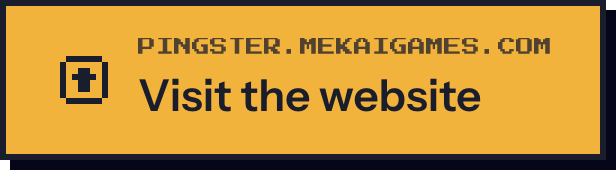
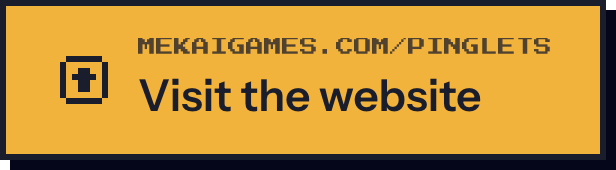
Pingster is now Pinglets

Changed region(s): [[0.2159, 0.2059, 0.8945, 0.3235]]

diff --git a/README.md b/README.md
@@ -1,13 +1,13 @@
 <p align="center">
-  <a href="https://mekaigames.com/pingster"><img src="assets/banner.gif" alt="Pingster: tiny pixel crew members walking on the Dock, one of them fighting a glitch" width="100%"></a>
+  <a href="https://mekaigames.com/pinglets"><img src="assets/banner.gif" alt="Pinglets: tiny pixel crew members walking on the Dock, one of them fighting a glitch" width="100%"></a>
 </p>
 
 <p align="center">
-  <a href="https://github.com/mekai-games/pingster/releases/latest/download/Pingster.dmg"><img src="assets/btn-download.png" alt="Download Pingster for Mac: 7-day free trial" height="58"></a>
+  <a href="https://github.com/mekai-games/pinglets/releases/latest/download/Pinglets.dmg"><img src="assets/btn-download.png" alt="Download Pinglets for Mac: 7-day free trial" height="58"></a>
   &nbsp;
-  <a href="https://github.com/mekai-games/pingster/releases/latest/download/Pingster-Setup.exe"><img src="assets/btn-windows.png" alt="Download Pingster for Windows: 7-day free trial" height="58"></a>
+  <a href="https://github.com/mekai-games/pinglets/releases/latest/download/Pinglets-Setup.exe"><img src="assets/btn-windows.png" alt="Download Pinglets for Windows: 7-day free trial" height="58"></a>
   &nbsp;
-  <a href="https://mekaigames.com/pingster"><img src="assets/btn-site.png" alt="Visit the Pingster website" height="58"></a>
+  <a href="https://mekaigames.com/pinglets"><img src="assets/btn-site.png" alt="Visit the Pinglets website" height="58"></a>
 </p>
 
 <p align="center">
@@ -20,7 +20,7 @@
   <img alt="macOS 11 or later" src="https://img.shields.io/badge/macOS-11%2B-2fd39a?style=flat-square&labelColor=1a1d2b">
   <img alt="Windows 10 and 11" src="https://img.shields.io/badge/Windows-10%20%7C%2011-2fd39a?style=flat-square&labelColor=1a1d2b">
   <img alt="6,99 € once, 7-day free trial" src="https://img.shields.io/badge/6%2C99%20%E2%82%AC%20once-7--day%20free%20trial-f2b33d?style=flat-square&labelColor=1a1d2b">
-  <img alt="Latest version" src="https://img.shields.io/github/v/release/mekai-games/pingster?style=flat-square&labelColor=1a1d2b&color=2fd39a&label=version">
+  <img alt="Latest version" src="https://img.shields.io/github/v/release/mekai-games/pinglets?style=flat-square&labelColor=1a1d2b&color=2fd39a&label=version">
   <img alt="No account, no ads, no tracking" src="https://img.shields.io/badge/no%20account%20%C2%B7%20no%20ads%20%C2%B7%20no%20tracking-f2b33d?style=flat-square&labelColor=1a1d2b">
 </p>
 
@@ -28,7 +28,7 @@
 
 ## A small app, not a game
 
-Pingster sits at the bottom of your screen and walks along the Dock (or the taskbar) while you work. Click it, drag it, throw
+Pinglets sits at the bottom of your screen and walks along the Dock (or the taskbar) while you work. Click it, drag it, throw
 it, pat it. It is there to help you with the day, and it needs a bit of help from you too.
 
 <table>
@@ -59,29 +59,29 @@ it, pat it. It is there to help you with the day, and it needs a bit of help fro
 | **Countdown** | Days left to the holidays, a deadline, a birthday. It tells you every morning. |
 
 <p align="center">
-  <img src="assets/panel.png" alt="The Pingster panel: pet, tasks, helpers and crew" width="100%">
+  <img src="assets/panel.png" alt="The Pinglets panel: pet, tasks, helpers and crew" width="100%">
 </p>
 
 <p align="center">
-  <img src="assets/crew.png" alt="The 22 crew members of Pingster" width="100%">
+  <img src="assets/crew.png" alt="The 22 crew members of Pinglets" width="100%">
 </p>
 
 ## Download
 
 | | |
 |---|---|
-| **Mac** | [Free trial for Mac](https://github.com/mekai-games/pingster/releases/latest/download/Pingster.dmg) · macOS 11 or later, Apple silicon or Intel |
-| **Windows** | [Free trial for Windows](https://github.com/mekai-games/pingster/releases/latest/download/Pingster-Setup.exe) · Windows 10 or 11, 64-bit |
-| **License** | Everything works for 7 days. Then [get your license](https://mekaigames.com/pingster#buy) for 6,99 €, once. One key, up to 3 computers. |
+| **Mac** | [Free trial for Mac](https://github.com/mekai-games/pinglets/releases/latest/download/Pinglets.dmg) · macOS 11 or later, Apple silicon or Intel |
+| **Windows** | [Free trial for Windows](https://github.com/mekai-games/pinglets/releases/latest/download/Pinglets-Setup.exe) · Windows 10 or 11, 64-bit |
+| **License** | Everything works for 7 days. Then [get your license](https://mekaigames.com/pinglets#buy) for 6,99 €, once. One key, up to 3 computers. |
 
-On a Mac, open the `.dmg` and drag Pingster into Applications. On Windows, run the setup. Pingster lives in the menu bar
+On a Mac, open the `.dmg` and drag Pinglets into Applications. On Windows, run the setup. Pinglets lives in the menu bar
 or in the tray next to the clock: no window in your way.
 Every version is in [Releases](../../releases).
 
 ## Privacy
 
 Everything stays on your computer. No account, no ads, no tracking, nothing sent anywhere.
-Read the [privacy policy](https://mekaigames.com/pingster/privacy).
+Read the [privacy policy](https://mekaigames.com/pinglets/privacy).
 
 ## FAQ
 
@@ -116,5 +116,5 @@ pat and a done task bring it back.
 
 <p align="center">
   Made by <a href="https://mekaigames.com"><b>MEKAI GAMES</b></a>, an independent studio from Italy.<br>
-  <sub>© 2026 MEKAI GAMES. All rights reserved. This repository is the public home of Pingster: news, releases and bug reports.</sub>
+  <sub>© 2026 MEKAI GAMES. All rights reserved. This repository is the public home of Pinglets: news, releases and bug reports.</sub>
 </p>
